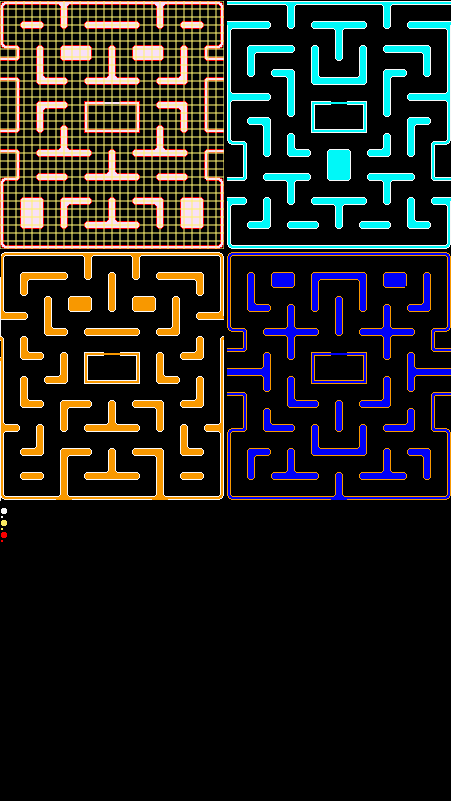
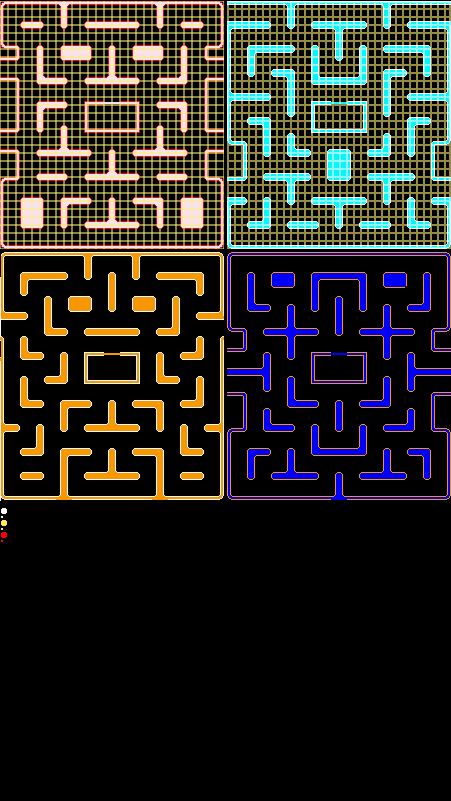
map 2

Changed region(s): [[0.4967, 0.0, 1.0, 0.3121]]

diff --git a/Ms. Pacman/ModuleBackground_Map2.cpp b/Ms. Pacman/ModuleBackground_Map2.cpp
@@ -16,13 +16,12 @@
 
 ModuleBackgroundMap2::ModuleBackgroundMap2()
 {
-	// Map 2
-	map2 = { 228, 0, 224, 248 };
-
-	// PowerPill
-	PowerPill.PushBack({ 0, 520, 7, 6 });
-	PowerPill.PushBack({ 0, 505, 1, 1 });
-	PowerPill.speed = 0.035f;
+	tile0 = { 74, 0, 8, 8 };	tile1 = { 0, 0, 8, 8 };		tile2 = { 9, 0, 8, 8 };		tile3 = { 18, 0, 8, 8 };	tile4 = { 27, 0, 8, 8 };	tile5 = { 0, 9, 8, 8 };
+	tile6 = { 9, 9, 8, 8 };		tile7 = { 0, 18, 8, 8 };	tile8 = { 9, 18, 8, 8 };	tile9 = { 18, 18, 8, 8 };	tile10 = { 27, 18, 8, 8 };	tile11 = { 0, 27, 8, 8 };
+	tile12 = { 9, 27, 8, 8 };	tile13 = { 18, 27, 8, 8 };	tile14 = { 27, 27, 8, 8 };	tile15 = { 37, 0, 8, 8 };	tile16 = { 46, 0, 8, 8 };	tile17 = { 55, 0, 8, 8 };
+	tile18 = { 64, 0, 8, 8 };	tile19 = { 37, 9, 8, 8 };	tile20 = { 46, 9, 8, 8 };	tile21 = { 55, 9, 8, 8 };	tile22 = { 64, 9, 8, 8 };	tile23 = { 37, 18, 8, 8 };
+	tile24 = { 46, 18, 8, 8 };	tile25 = { 55, 18, 8, 8 };	tile26 = { 64, 18, 8, 8 };	tilePILL = { 74, 9, 8, 8 };	tilepill = { 74, 18, 8, 8 }; tilehouse = { 74, 27, 8, 8 };
+	tile27 = { 83, 0, 8, 8 };	tile28 = { 83, 9, 8, 8 };   tile29 = { 83, 18, 8, 8 };	tile30 = { 83, 27, 8, 8 };  tile31 = { 92, 0, 8, 8 };
 }
 
 ModuleBackgroundMap2::~ModuleBackgroundMap2()
@@ -33,11 +32,55 @@ bool ModuleBackgroundMap2::Start()
 {
 	LOG("Loading maps(2).");
 	bool ret = true;
-	graphics = App->textures->Load("void_maps.png");
+	graphics = App->textures->Load("Tileset 2.png");
 
 	// Enable and disable modules
 	App->player->Enable();
-	App->ghost_blue->Enable();
+
+	// Temporal map
+	char tmp_map[31][28]
+	{	//1   2   3   4   5   6   7   8   9   10  11  12  13  14  15  16  17  18  19  20  21  22  23  24  25  26  27  28
+		{ 7,  7,  7,  7,  7,  7 , 7,  7,  7,  7,  7,  7,  7,  7,  7,  7,  7,  7,  7,  7,  7,  7,  7,  7,  7,  7,  7,  7 }, //1
+		{ 0,  0,  0,  0,  0,  0,  0,  0,  0,  0,  0,  0,  0,  0,  0,  0,  0,  0,  0,  0,  0,  0,  0,  0,  0,  0,  0,  0 }, //2
+		{ 17,  17,  17,  17,  17,  12,  0,  0,  0,  0,  0,  0,  0,  0,  0,  0,  0,  0,  0,  0,  0,  0,  11,  17,  17,  17,  17,  17 }, //3
+		{ 31,  18,  18,  18,  18,  14,  0,  0,  0,  0,  0,  0,  0,  0,  0,  0,  0,  0,  0,  0,  0,  0,  13,  18,  18,  18,  18,  32 }, //4
+		{ 8,  0,  0,  0,  0,  0,  0,  0,  0,  0,  0,  0,  0,  0,  0,  0,  0,  0,  0,  0,  0,  0,  0,  0,  0,  0,  0,  10 }, //5
+		{ 8,  0,  0,  0,  0,  0,  0,  0,  0,  0,  0,  0,  0,  0,  0,  0,  0,  0,  0,  0,  0,  0,  0,  0,  0,  0,  0,  10 }, //6
+		{ 8,  0,  0,  0,  0,  0,  0,  0,  0,  0,  0,  0,  0,  0,  0,  0,  0,  0,  0,  0,  0,  0,  0,  0,  0,  0,  0,  10 }, //7
+		{ 8,  0,  0,  0,  0,  0,  0,  0,  0,  0,  0,  0,  0,  0,  0,  0,  0,  0,  0,  0,  0,  0,  0,  0,  0,  0,  0,  10 }, //8
+		{ 8,  0,  0,  0,  0,  0,  0,  0,  0,  0,  0,  0,  0,  0,  0,  0,  0,  0,  0,  0,  0,  0,  0,  0,  0,  0,  0,  10 }, //9
+		{ 8,  0,  0,  0,  0,  0,  0,  0,  0,  0,  0,  0,  0,  0,  0,  0,  0,  0,  0,  0,  0,  0,  0,  0,  0,  0,  0,  10 }, //10
+		{ 8,  0,  0,  0,  0,  0,  0,  0,  0,  0,  0,  0,  0,  0,  0,  0,  0,  0,  0,  0,  0,  0,  0,  0,  0,  0,  0,  10 }, //11
+		{ 33, 17, 17, 17, 17, 12,  0,  0,  0,  0,  0,  0,  0,  0,  0,  0,  0,  0,  0,  0,  0,  0,  0,  0,  0,  0,  0,  34 }, //12
+		{ 31, 18, 18, 18, 18,  14,  0,  0,  0,  0,  0,  0,  0,  0,  0,  0,  0,  0,  0,  0,  0,  0,  0,  0,  0,  0,  0,  32 }, //13
+		{ 8,  0,  0,  0,  0,  0,  0,  0,  0,  0,  0,  0,  0,  0,  0,  0,  0,  0,  0,  0,  0,  0,  0,  0,  0,  0,  0,  10 }, //14
+		{ 8,  0,  0,  0,  0,  0,  0,  0,  0,  0,  0,  0,  0,  0,  0,  0,  0,  0,  0,  0,  0,  0,  0,  0,  0,  0,  0,  10 }, //15
+		{ 8,  0,  0,  0,  0,  0,  0,  0,  0,  0,  0,  0,  0,  0,  0,  0,  0,  0,  0,  0,  0,  0,  0,  0,  0,  0,  0,  10 }, //16
+		{ 8,  0,  0,  0,  0,  0,  0,  0,  0,  0,  0,  0,  0,  0,  0,  0,  0,  0,  0,  0,  0,  0,  0,  0,  0,  0,  0,  10 }, //17
+		{ 3,  9,  12,  0,  0,  0,  0,  0,  0,  0,  0,  0,  0,  0,  0,  0,  0,  0,  0,  0,  0,  0,  0,  0,  0,  11,  9,  4 }, //18
+		{ 0,  0,  8,  0,  0,  0,  0,  0,  0,  0,  0,  0,  0,  0,  0,  0,  0,  0,  0,  0,  0,  0,  0,  0,  0,  10,  0,  0 }, //19
+		{ 0,  0,  8,  0,  0,  0,  0,  0,  0,  0,  0,  0,  0,  0,  0,  0,  0,  0,  0,  0,  0,  0,  0,  0,  0,  10,  0,  0 }, //20
+		{ 0,  0,  8,  0,  0,  0,  0,  0,  0,  0,  0,  0,  0,  0,  0,  0,  0,  0,  0,  0,  0,  0,  0,  0,  0,  10,  0,  0 }, //21
+		{ 0,  0,  8,  0,  0,  0,  0,  0,  0,  0,  0,  0,  0,  0,  0,  0,  0,  0,  0,  0,  0,  0,  0,  0,  0,  10,  0,  0 }, //22
+		{ 7, 7,  14,  0,  0,  0,  0,  0,  0,  0,  0,  0,  0,  0,  0,  0,  0,  0,  0,  0,  0,  0,  0,  0,  0,  13,  7,  7 }, //23
+		{ 0,  0,  0,  0,  0,  0,  0,  0,  0,  0,  0,  0,  0,  0,  0,  0,  0,  0,  0,  0,  0,  0,  0,  0,  0,  0,  0,  0 }, //24
+		{ 17,  0,  0,  0,  0,  0,  0,  0,  0,  0,  0,  0,  0,  0,  0,  0,  0,  0,  0,  0,  0,  0,  0,  0,  0,  0,  0, 17 }, //25
+		{ 31,  0,  0,  0,  0,  0,  0,  0,  0,  0,  0,  0,  0,  0,  0,  0,  0,  0,  0,  0,  0,  0,  0,  0,  0,  0,  0, 32 }, //26
+		{ 8,  0,  0,  0,  0,  0,  0,  0,  0,  0,  0,  0,  0,  0,  0,  0,  0,  0,  0,  0,  0,  0,  0,  0,  0,  0,  0,  10 }, //27
+		{ 8,  0,  0,  0,  0,  0,  0,  0,  0,  0,  0,  0,  0,  0,  0,  0,  0,  0,  0,  0,  0,  0,  0,  0,  0,  0,  0,  10 }, //28
+		{ 8,  0,  0,  0,  0,  0,  0,  0,  0,  0,  0,  0,  0,  0,  0,  0,  0,  0,  0,  0,  0,  0,  0,  0,  0,  0,  0,  10 }, //29
+		{ 8,  0,  0,  0,  0,  0,  0,  0,  0,  0,  0,  0,  0,  0,  0,  0,  0,  0,  0,  0,  0,  0,  0,  0,  0,  0,  0,  10 }, //30
+		{ 3,  9,  9,  9,  9,  9,  9,  9,  9,  9,  9,  9,  9,  9,  9,  9,  9,  9,  9,  9,  9,  9,  9,  9,  9,  9,  9,  4 }, //31
+	};
+	
+	// Passing map to the header
+	for (int i = 0; i < 31; i++)
+	{
+		for (int y = 0; y < 28; y++)
+		{
+			map2[i][y] = tmp_map[i][y];
+		}
+	}
 	return ret;
 }
 
@@ -51,14 +94,136 @@ bool ModuleBackgroundMap2::CleanUp()
 // Update: draw background
 update_status ModuleBackgroundMap2::Update()
 {
+
 	// Draw everything --------------------------------------	
-	App->render->Blit(graphics, 1, 15, &map2, 1.0f); // map 1
-	App->render->Blit(graphics, 9, 49, &(PowerPill.GetCurrentFrame()), 1.0f);
-	App->render->Blit(graphics, 209, 49, &(PowerPill.GetCurrentFrame()), 1.0f);
-	App->render->Blit(graphics, 9, 226, &(PowerPill.GetCurrentFrame()), 1.0f);
-	App->render->Blit(graphics, 209, 226, &(PowerPill.GetCurrentFrame()), 1.0f);
+	int i = 0;
+	while (i < 28)
+	{
+		for (int j = 0; j < 31; j++)
+		{
+			switch (map2[j][i])
+			{
+			case 0:
+				App->render->Blit(graphics, i * 8, j * 8 + DISTANCE, &tile0);
+				break;
+			case 1:
+				App->render->Blit(graphics, i * 8, j * 8 + DISTANCE, &tile1);
+				break;
+			case 2:
+				App->render->Blit(graphics, i * 8, j * 8 + DISTANCE, &tile2);
+				break;
+			case 3:
+				App->render->Blit(graphics, i * 8, j * 8 + DISTANCE, &tile3);
+				break;
+			case 4:
+				App->render->Blit(graphics, i * 8, j * 8 + DISTANCE, &tile4);
+				break;
+			case 5:
+				App->render->Blit(graphics, i * 8, j * 8 + DISTANCE, &tile5);
+				break;
+			case 6:
+				App->render->Blit(graphics, i * 8, j * 8 + DISTANCE, &tile6);
+				break;
+			case 7:
+				App->render->Blit(graphics, i * 8, j * 8 + DISTANCE, &tile7);
+				break;
+			case 8:
+				App->render->Blit(graphics, i * 8, j * 8 + DISTANCE, &tile8);
+				break;
+			case 9:
+				App->render->Blit(graphics, i * 8, j * 8 + DISTANCE, &tile9);
+				break;
+			case 10:
+				App->render->Blit(graphics, i * 8, j * 8 + DISTANCE, &tile10);
+				break;
+			case 11:
+				App->render->Blit(graphics, i * 8, j * 8 + DISTANCE, &tile11);
+				break;
+			case 12:
+				App->render->Blit(graphics, i * 8, j * 8 + DISTANCE, &tile12);
+				break;
+			case 13:
+				App->render->Blit(graphics, i * 8, j * 8 + DISTANCE, &tile13);
+				break;
+			case 14:
+				App->render->Blit(graphics, i * 8, j * 8 + DISTANCE, &tile14);
+				break;
+			case 15:
+				App->render->Blit(graphics, i * 8, j * 8 + DISTANCE, &tile15);
+				break;
+			case 16:
+				App->render->Blit(graphics, i * 8, j * 8 + DISTANCE, &tile16);
+				break;
+			case 17:
+				App->render->Blit(graphics, i * 8, j * 8 + DISTANCE, &tile17);
+				break;
+			case 18:
+				App->render->Blit(graphics, i * 8, j * 8 + DISTANCE, &tile18);
+				break;
+			case 19:
+				App->render->Blit(graphics, i * 8, j * 8 + DISTANCE, &tile19);
+				break;
+			case 20:
+				App->render->Blit(graphics, i * 8, j * 8 + DISTANCE, &tile20);
+				break;
+			case 21:
+				App->render->Blit(graphics, i * 8, j * 8 + DISTANCE, &tile21);
+				break;
+			case 22:
+				App->render->Blit(graphics, i * 8, j * 8 + DISTANCE, &tile22);
+				break;
+			case 23:
+				App->render->Blit(graphics, i * 8, j * 8 + DISTANCE, &tile23);
+				break;
+			case 24:
+				App->render->Blit(graphics, i * 8, j * 8 + DISTANCE, &tile24);
+				break;
+			case 25:
+				App->render->Blit(graphics, i * 8, j * 8 + DISTANCE, &tile25);
+				break;
+			case 26:
+				App->render->Blit(graphics, i * 8, j * 8 + DISTANCE, &tile26);
+				break;
+			case 27:
+				App->render->Blit(graphics, i * 8, j * 8 + DISTANCE, &tilePILL);
+				break;
+			case 28:
+				App->render->Blit(graphics, i * 8, j * 8 + DISTANCE, &tilepill);
+				break;
+			case 29:
+				App->render->Blit(graphics, i * 8, j * 8 + DISTANCE, &tilehouse);
+				break;
+			case 30:
+				App->render->Blit(graphics, i * 8, j * 8 + DISTANCE, &tile27);
+				break;
+			case 31:
+				App->render->Blit(graphics, i * 8, j * 8 + DISTANCE, &tile28);
+				break;
+			case 32:
+				App->render->Blit(graphics, i * 8, j * 8 + DISTANCE, &tile29);
+				break;
+			case 33:
+				App->render->Blit(graphics, i * 8, j * 8 + DISTANCE, &tile30);
+				break;
+			case 34:
+				App->render->Blit(graphics, i * 8, j * 8 + DISTANCE, &tile31);
+				break;
+			}
+		}
+		i++;
+	}
 
-
+	switch (map2[App->player->player_tile.y][App->player->player_tile.x])
+	{
+	case 27:
+		map2[App->player->player_tile.y][App->player->player_tile.x] = 0;
+		break;
+	case 28:
+		map2[App->player->player_tile.y][App->player->player_tile.x] = 0;
+		break;
+	default:
+		break;
+	}
 	// Load scene when press space
 
 	if (App->input->keyboard[SDL_SCANCODE_SPACE] == 1)

diff --git a/Ms. Pacman/ModuleBackground_Map2.h b/Ms. Pacman/ModuleBackground_Map2.h
@@ -20,9 +20,52 @@ public:
 public:
 
 	SDL_Texture* graphics = nullptr;
-
 	Animation PowerPill;
-	SDL_Rect map2;
+
+	SDL_Rect Dot1;
+
+	// 220 pills and 4 PowerPills
+
+	SDL_Rect tile0;
+	SDL_Rect tile1;
+	SDL_Rect tile2;
+	SDL_Rect tile3;
+	SDL_Rect tile4;
+	SDL_Rect tile5;
+	SDL_Rect tile6;
+	SDL_Rect tile7;
+	SDL_Rect tile8;
+	SDL_Rect tile9;
+	SDL_Rect tile10;
+	SDL_Rect tile11;
+	SDL_Rect tile12;
+	SDL_Rect tile13;
+	SDL_Rect tile14;
+	SDL_Rect tile15;
+	SDL_Rect tile16;
+	SDL_Rect tile17;
+	SDL_Rect tile18;
+	SDL_Rect tile19;
+	SDL_Rect tile20;
+	SDL_Rect tile21;
+	SDL_Rect tile22;
+	SDL_Rect tile23;
+	SDL_Rect tile24;
+	SDL_Rect tile25;
+	SDL_Rect tile26;
+	SDL_Rect tile27;
+	SDL_Rect tilePILL;
+	SDL_Rect tilepill;
+	SDL_Rect tilehouse;
+
+	// Extra tiles
+	SDL_Rect tile28;
+	SDL_Rect tile29;
+	SDL_Rect tile30;
+	SDL_Rect tile31;
+	//iPoint player_tile_position;
+
+	char map2[31][28];
 };
 
 #endif

diff --git a/Ms. Pacman/ModuleBackground_Map1.cpp b/Ms. Pacman/ModuleBackground_Map1.cpp
@@ -17,7 +17,6 @@
 
 ModuleBackgroundMap1::ModuleBackgroundMap1()
 {
-
 	tile0 = { 74, 0, 8, 8 };	tile1 = { 0, 0, 8, 8 };		tile2 = { 9, 0, 8, 8 };		tile3 = { 18, 0, 8, 8 };	tile4 = { 27, 0, 8, 8 };	tile5 = { 0, 9, 8, 8 };
 	tile6 = { 9, 9, 8, 8 };		tile7 = { 0, 18, 8, 8 };	tile8 = { 9, 18, 8, 8 };	tile9 = { 18, 18, 8, 8 };	tile10 = { 27, 18, 8, 8 };	tile11 = { 0, 27, 8, 8 };
 	tile12 = { 9, 27, 8, 8 };	tile13 = { 18, 27, 8, 8 };	tile14 = { 27, 27, 8, 8 };	tile15 = { 37, 0, 8, 8 };	tile16 = { 46, 0, 8, 8 };	tile17 = { 55, 0, 8, 8 };
@@ -204,6 +203,7 @@ update_status ModuleBackgroundMap1::Update()
 				App->render->Blit(graphics,   i * 8 , j * 8 + DISTANCE, &tile27);
 				break; 
 			}
+
 		}
 		i++;
 	}
